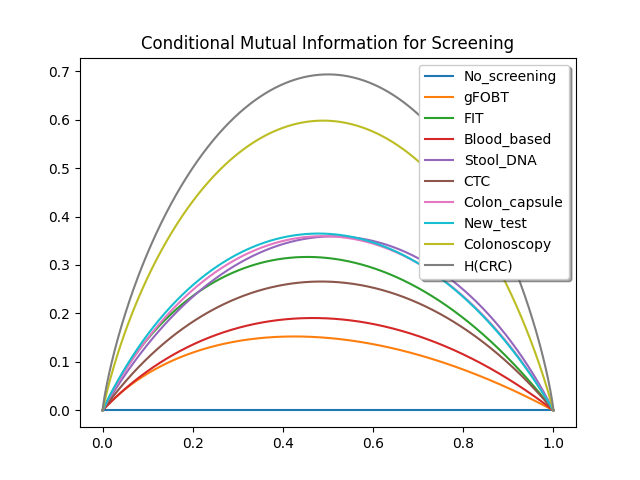
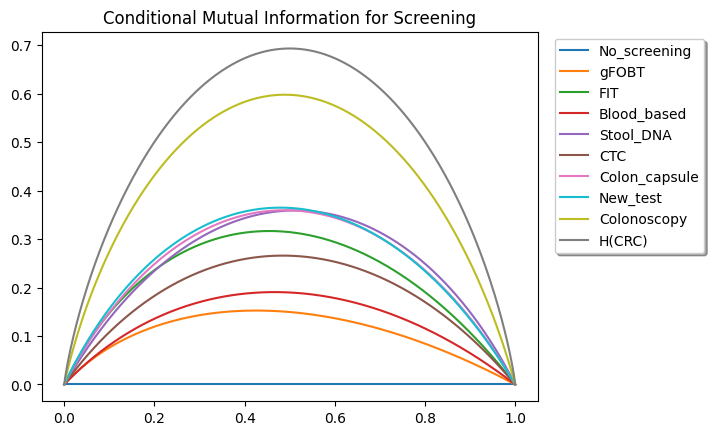
update output image format

diff --git a/plots.py b/plots.py
@@ -68,12 +68,12 @@ def plot_cond_mut_info(net, subtitle = '', plot = True, zoom = (0.1, 0.1)):
             ax.plot(np.arange(0,1.001,0.001), arr[screening], label = f"{labels[screening]}", color = color_dict[labels[screening]])
         
         ax.plot(np.arange(0,1.001,0.001), h_y_arr, label = "H(CRC)", color = color_dict["H(CRC)"])
-        leg = plt.legend(loc='upper right', shadow=True)
+        leg = plt.legend(loc='upper right', bbox_to_anchor=(1.35, 1), shadow=True)
         title = "Conditional Mutual Information for Screening"
         plt.title(title)
 
         # save plot
-        plt.savefig(f"output_images/{title}_{subtitle}.png")
+        plt.savefig(f"output_images/{title}_{subtitle}.png", bbox_inches='tight')
 
         fig, ax = plt.subplots()
         labels = net.get_outcome_ids("Screening") + ["Colonoscopy"]
@@ -81,12 +81,12 @@ def plot_cond_mut_info(net, subtitle = '', plot = True, zoom = (0.1, 0.1)):
             ax.plot(np.arange(0,1.001,0.001), arr[screening], label = f"{labels[screening]}", color = color_dict[labels[screening]])
         
         ax.plot(np.arange(0,1.001,0.001), h_y_arr, label = "H(CRC)", color = color_dict["H(CRC)"])
-        leg = plt.legend(loc='upper right', shadow=True)
+        leg = plt.legend(loc='upper right', bbox_to_anchor=(1.35, 1), shadow=True)
             
         ax.set_xlim(0, zoom[0])
         ax.set_ylim(0, zoom[1])
 
-        plt.savefig(f"output_images/{title}_{subtitle}_zoom.png")
+        plt.savefig(f"output_images/{title}_{subtitle}_zoom.png", bbox_inches='tight')
 
 
         fig, ax = plt.subplots()
@@ -96,12 +96,12 @@ def plot_cond_mut_info(net, subtitle = '', plot = True, zoom = (0.1, 0.1)):
             ax.plot(np.arange(0,1.001,0.001), arr[screening], label = f"{labels[screening]}", color = color_dict[labels[screening]])
             
         ax.plot(np.arange(0,1.001,0.001), h_y_arr, label = "H(CRC)", color = color_dict["H(CRC)"])  
-        leg = plt.legend(loc='upper right', shadow=True)
+        leg = plt.legend(loc='upper right', bbox_to_anchor=(1.35, 1), shadow=True)
             
         ax.set_xlim(1 - zoom[0], 1)
         ax.set_ylim(-0.005, zoom[1])
 
-        plt.savefig(f"output_images/{title}_{subtitle}_zoom2.png")
+        plt.savefig(f"output_images/{title}_{subtitle}_zoom2.png", bbox_inches='tight')
 
     return arr
 
@@ -177,7 +177,7 @@ def plot_cond_mut_info_bounds(net1, net2 = None):
     
 
     ax.plot(np.arange(0,1.001,0.001), h_y_arr, label = "H(CRC)")
-    leg = plt.legend(loc='upper right', shadow=True)
+    leg = plt.legend(loc='upper right', bbox_to_anchor=(1.35, 1), shadow=True)
     title = "Conditional Mutual Information for Screening"
     plt.title(title)
 
@@ -231,13 +231,15 @@ def plot_relative_cond_mut_info(net, subtitle = '', zoom=(0.001, 0.1)):
         ax.plot(np.arange(0,1.001,0.001), arr[screening], label = f"{labels[screening]}", color = color_dict[labels[screening]])
 
     # ax.plot(np.arange(0,1.001,0.001), h_y_arr, label = "H(Y)")
-    leg = plt.legend(loc='upper right', shadow=True)
+    leg = plt.legend(loc='upper right', bbox_to_anchor=(1.35, 1), shadow=True)
+
     title = "Relative Reduction of Uncertainty with respect to CRC"
     plt.title(title)
     ax.set_xlabel("p(CRC)")
     ax.set_ylabel("RCMI")
 
-    plt.savefig(f"output_images/rel_cond_mut_info_{subtitle}.png")
+    # plt.tight_layout()  
+    plt.savefig(f"output_images/rel_cond_mut_info_{subtitle}.png", bbox_inches='tight')
 
 
 
@@ -247,14 +249,30 @@ def plot_relative_cond_mut_info(net, subtitle = '', zoom=(0.001, 0.1)):
         ax.plot(np.arange(0,1.001,0.001), arr[screening], label = f"{labels[screening]}", color = color_dict[labels[screening]])
 
     # ax.plot(np.arange(0,1.001,0.001), h_y_arr, label = "H(Y)")
-    leg = plt.legend(loc='upper right', shadow=True)
+    leg = plt.legend(loc='upper right', bbox_to_anchor=(1.35, 1), shadow=True)
     title = "Relative Reduction of Uncertainty with respect to CRC"
     plt.title(title)
      
     ax.set_xlim(0, zoom[0])
     ax.set_ylim(-0.005,zoom[1])
 
-    plt.savefig(f"output_images/rel_cond_mut_info_zoom_{subtitle}.png")
+    plt.savefig(f"output_images/rel_cond_mut_info_zoom_{subtitle}.png", bbox_inches='tight')
+
+
+    fig, ax = plt.subplots()
+    labels = net.get_outcome_ids("Screening") + ["Colonoscopy"]
+    for screening in range(arr.shape[0]):
+        ax.plot(np.arange(0,1.001,0.001), arr[screening], label = f"{labels[screening]}", color = color_dict[labels[screening]])
+
+    # ax.plot(np.arange(0,1.001,0.001), h_y_arr, label = "H(Y)")
+    leg = plt.legend(loc='upper right', bbox_to_anchor=(1.35, 1), shadow=True)
+    title = "Relative Reduction of Uncertainty with respect to CRC"
+    plt.title(title)
+     
+    ax.set_xlim(1 - zoom[0], 1)
+    ax.set_ylim(-0.005,zoom[1])
+
+    plt.savefig(f"output_images/rel_cond_mut_info_zoom_{subtitle}_2.png", bbox_inches='tight')
 
 
 
@@ -327,7 +345,7 @@ def plot_relative_cond_mut_info_bounds(net1, net2 = None):
     
 
     # ax.plot(np.arange(0,1.001,0.001), h_y_arr, label = "H(CRC)")
-    leg = plt.legend(loc='upper right', shadow=True)
+    leg = plt.legend(loc='upper right', bbox_to_anchor=(1.35, 1), shadow=True)
     title = "Relative Conditional Mutual Information for Screening"
     plt.title(title)
 

diff --git a/main.py b/main.py
@@ -1,18 +1,7 @@
-import pysmile
-import pysmile_license
 import numpy as np
 import pandas as pd
-import itertools
-from plots import plot_cond_mut_info, plot_relative_cond_mut_info
-from save_info_values import save_info_values
 np.seterr(divide='ignore', invalid = 'ignore')
 
-from df_plot import plot_df 
-from info_value_to_net import info_value_to_net
-from get_info_values import mutual_info_measures
-from functions import system_of_eq, tanh_fun
-from elicitation import parameter_elicitation_utilities_option1, parameter_elicitation_utilities_tanh
-from elicit_lambda import elicit_lambda
 from update import update_influence_diagram
 
 import logging
@@ -26,23 +15,14 @@ import pdb
 
 import argparse
 
-
-
-
-# Get the current working directory
 current_dir = os.getcwd()
-
-# Define the path for the logs directory within the current directory
 log_dir = os.path.join(current_dir, 'logs')
 
 # Create the logs directory if it doesn't exist
 if not os.path.exists(log_dir):
     os.makedirs(log_dir)
 
-# Get the current timestamp
 timestamp = datetime.datetime.now().strftime("%Y-%m-%d_%H-%M-%S")
-
-# Define the log file path with the timestamp
 log_filename = os.path.join(log_dir, f"decision_model_{timestamp}.log")
 
 # Create a custom logger
@@ -71,7 +51,7 @@ logger.addHandler(console_handler)
 
 parser = argparse.ArgumentParser(description="Update the influence diagram")
     
-# Mandatory argument (positional argument)
+# Introduction of arguments
 parser.add_argument('--model_type', type=str, default=cfg["model_type"], help='Model type, choose between linear or tanh')
 parser.add_argument('--value_function', type=str, default= cfg["value_function"], help='Value function, choose between rel_pcmi or pcmi')
 parser.add_argument('--elicit', type=bool, default=cfg["elicit"], help='Elicitation method, choose between option1 or tanh')
@@ -81,6 +61,7 @@ parser.add_argument('--new_test', type=bool, default=cfg["new_test"], help='New 
 args = parser.parse_args()
 
 
+# Update the influence diagram
 net = update_influence_diagram(
     model_type = args.model_type,
     value_function = args.value_function,
